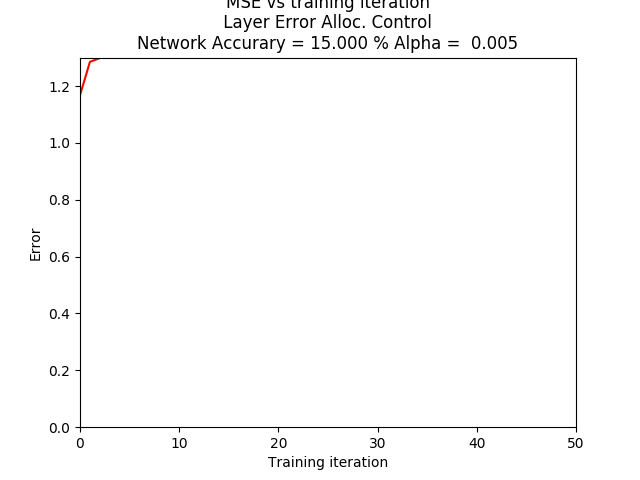
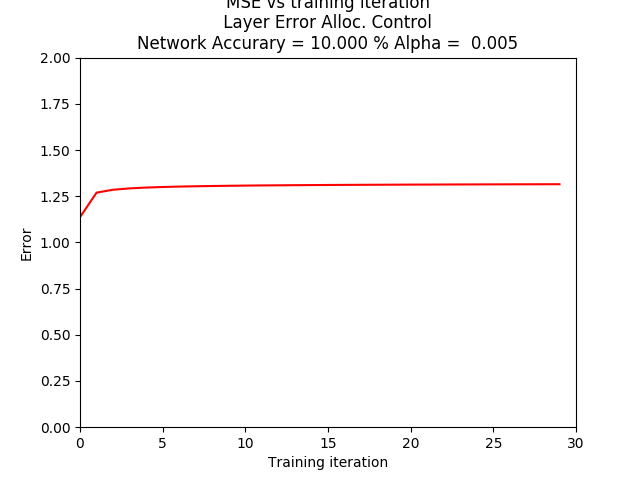
MNIST Trial runs

diff --git a/Mark_Work/LayerAllocation/MNIST/MNIST_Control_Net.py b/Mark_Work/LayerAllocation/MNIST/MNIST_Control_Net.py
@@ -25,7 +25,7 @@ mnist.init()
 
 random.seed(123)
 
-partition1 = 100
+partition1 = 80
 partition2 = 20
 
 # Load dataset
@@ -131,7 +131,7 @@ def sigmoid(A, deriv=False):
 # Define hyper parameters
 trial_num = 1
 alpha = 0.005
-epoch = 50
+epoch = 30
 neuron = [784, 30, 10]  # number of neuron each layer
 write_out_name = "Trial" + str(trial_num) + ".txt"
 
@@ -139,7 +139,7 @@ f = open(write_out_name, "w+")
 f.write(" alpha: %.4f, epoch: %d \n" % (alpha, epoch))
 f.write(" neuron[0]: %d, neuron[1]: %d, neuron[2]: %d \n" %(neuron[0],
 neuron[1], neuron[2]))
-f.write("\n ##### Begin Training Input #####")
+f.write("\n ##### Begin Training Input ##### \n ")
 
 # Initiate weight and bias with 0 value
 weight = [[0 for j in range(neuron[1])] for i in range(neuron[0])]
@@ -213,8 +213,8 @@ for e in range(epoch):
     if (e % interval == 0):
         print("Epoch" , e/interval, " out of ", epoch/interval)
         print("Epoch cost: ", cost_total)
-        f.write("Epoch %.4f out of %.4f " % (e/interval, epoch/interval))
-        f.write("Epoch cost: .4f " % cost_total)
+        f.write("Epoch %.4f out of %.4f \n " % (e/interval, epoch/interval))
+        f.write("Epoch cost: %.4f \n " % cost_total)
 
 print(["cost_for_graph", cost_for_graph])
 cost_for_graph = np.array(cost_for_graph)
@@ -282,7 +282,7 @@ fig = plt.figure()
 ax = fig.add_subplot(1, 1, 1)
 ax.plot(x_axis, cost_for_graph, 'r')
 # axis(xmin, xmax, ymin, ymax)
-plt.axis([0, epoch, 0, 1.30])
+plt.axis([0, epoch, 0, 2.0])
 plt.xlabel('Training iteration')
 plt.ylabel('Error')
 ax.set_title('MSE vs training iteration\n '
